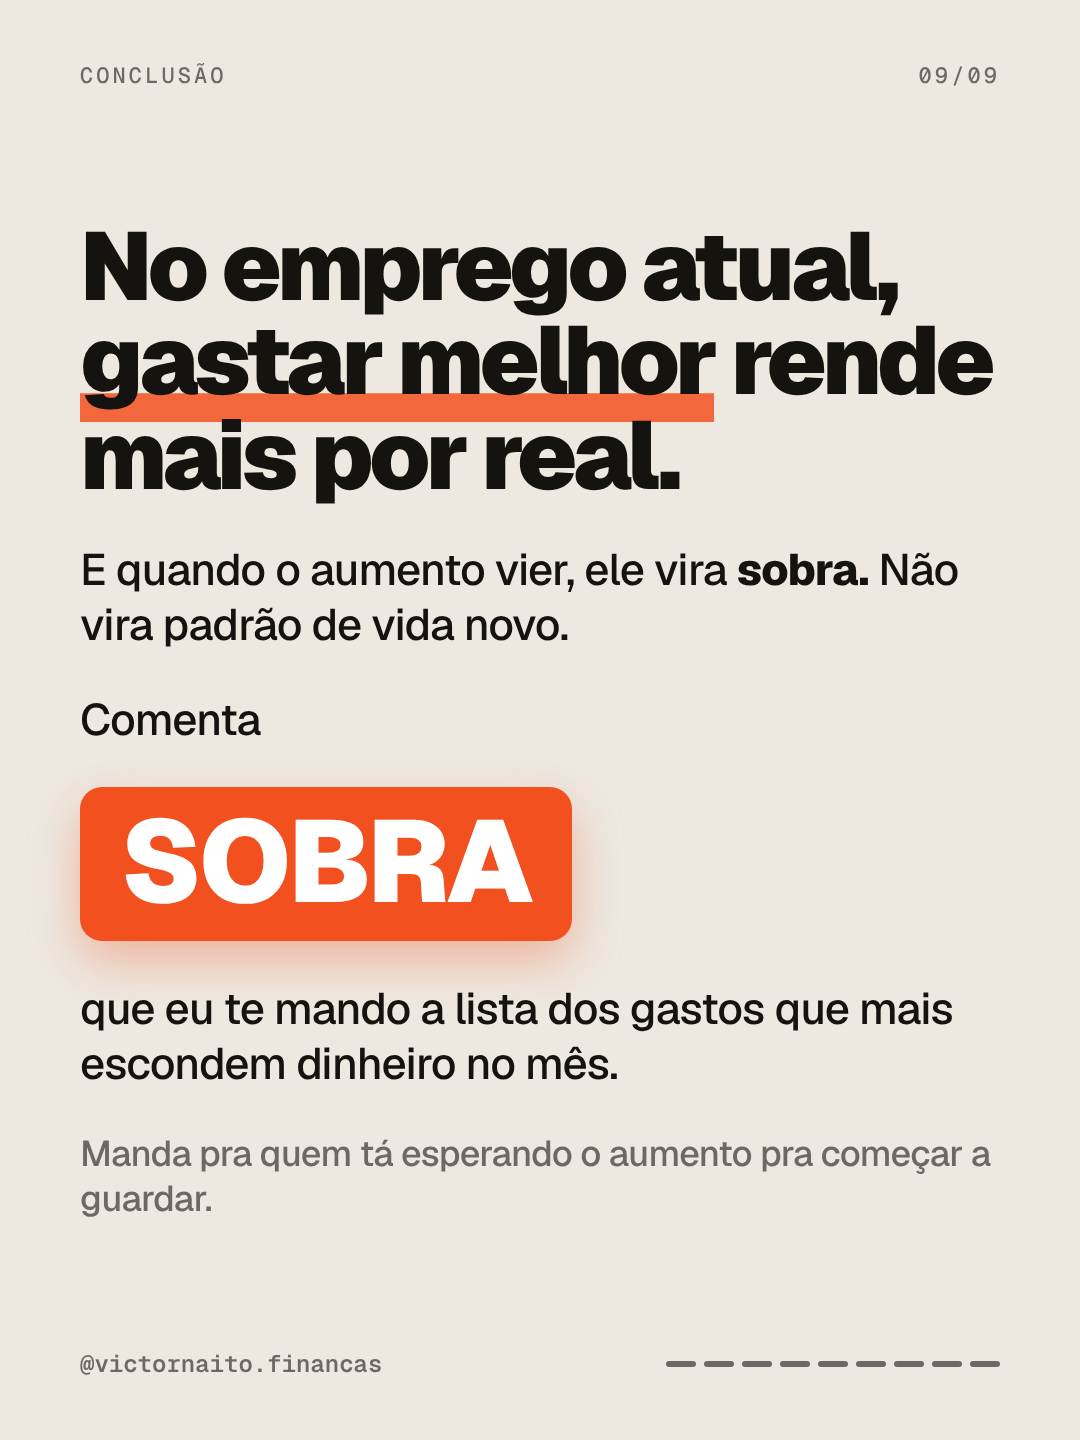
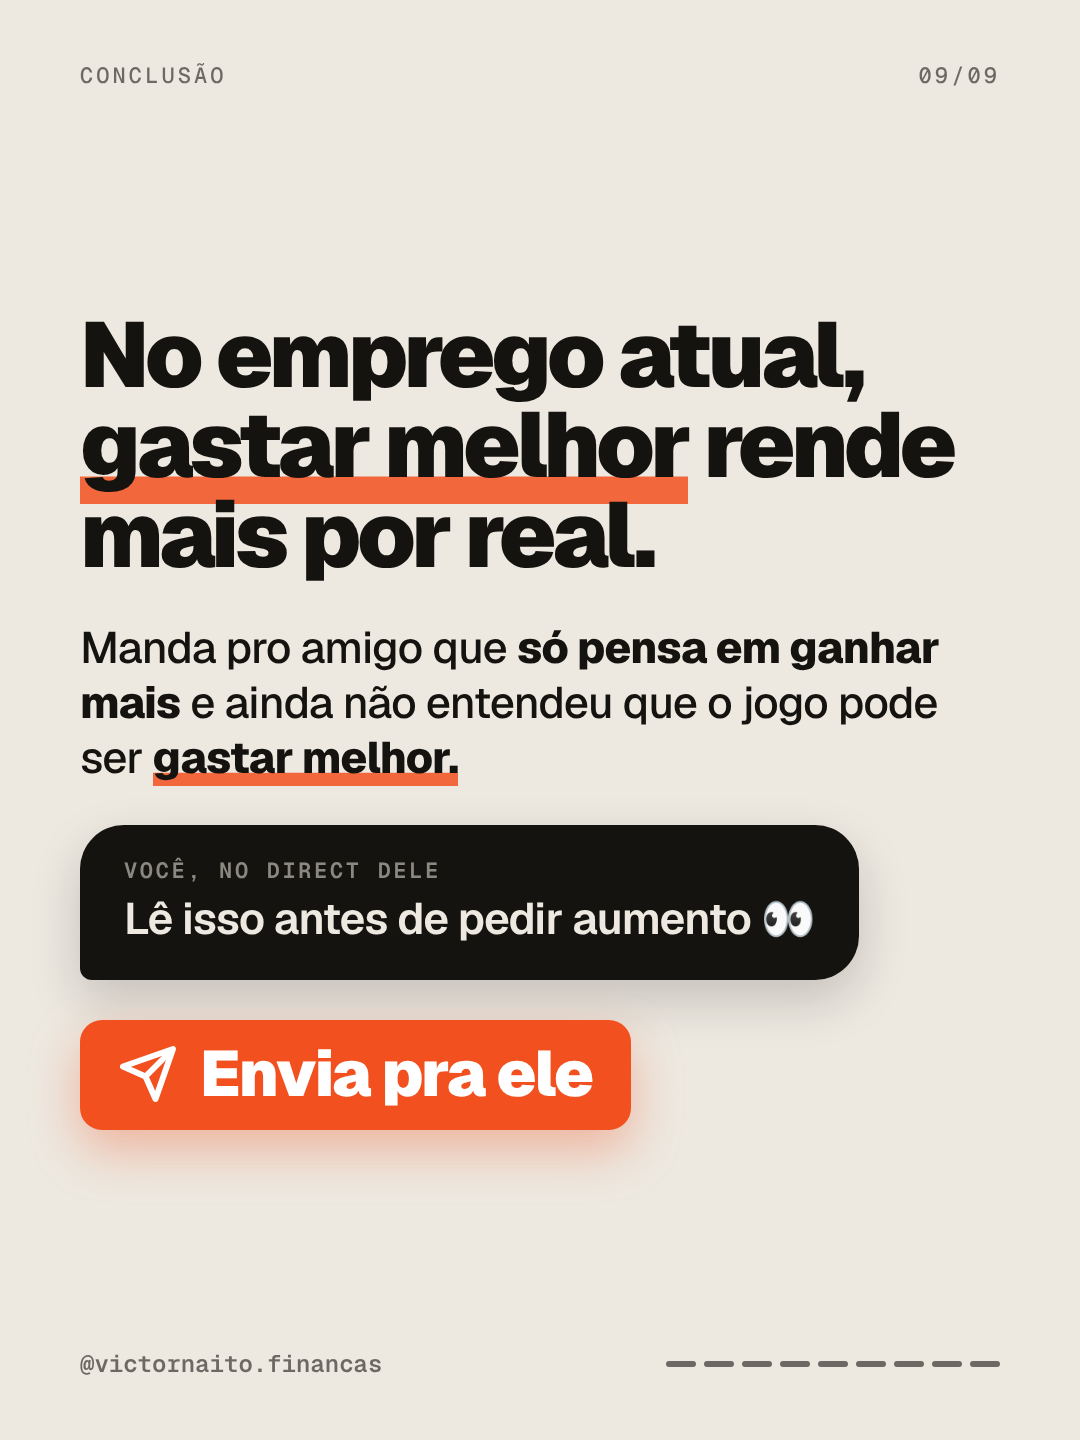
Carrossel sobra vs. aumento: último slide vira CTA de compartilhar
Claude-Session: https://claude.ai/code/session_01S962yHBN9nh6vkU1Z5TodD

Changed region(s): [[0.0611, 0.1562, 0.9167, 0.8438]]

diff --git a/carrosseis/sobra-vs-aumento/src/slide-09.html b/carrosseis/sobra-vs-aumento/src/slide-09.html
@@ -39,18 +39,20 @@ body { -webkit-font-smoothing: antialiased; font-family: 'Geist'; color: var(--t
 .lista .h { font-weight: 800; font-size: 46px; line-height: 1.1; letter-spacing: -0.03em; }
 .lista .d { grid-column: 2; margin-top: 10px; font-weight: 500; font-size: 32px; line-height: 1.3; color: var(--mudo); }
 
-    .palavra { display: inline-block; background: var(--laranja); color: #fff; border-radius: 22px; padding: 16px 40px 22px;
-      font-weight: 900; font-size: 116px; letter-spacing: -0.03em; line-height: 1; box-shadow: 0 20px 50px rgba(242,81,31,.35); }
-    .miolo { gap: 40px; }</style></head>
+    .miolo { gap: 40px; }
+    .dm { align-self: flex-start; max-width: 860px; background: var(--tinta); color: var(--papel); border-radius: 44px 44px 44px 12px;
+      padding: 34px 44px; font-weight: 600; font-size: 44px; line-height: 1.2; letter-spacing: -0.02em; box-shadow: 0 20px 50px rgba(21,19,15,.18); }
+    .dm small { display: block; margin-bottom: 12px; font: 600 22px/1 'Geist Mono'; letter-spacing: .12em; text-transform: uppercase; color: rgba(237,233,225,.55); }
+    .enviar { display: inline-flex; align-items: center; gap: 22px; background: var(--laranja); color: #fff; border-radius: 22px;
+      padding: 22px 38px 24px; font-weight: 900; font-size: 64px; letter-spacing: -0.03em; line-height: 1; box-shadow: 0 20px 50px rgba(242,81,31,.35); }
+    .enviar svg { width: 60px; height: 60px; }</style></head>
 <body><div id="q" class="">
   <div class="abs cab"><span>Conclusão</span><span>09/09</span></div>
   <div class="abs miolo">
-    <div class="t" style="font-size:96px">No emprego atual, <span class="grifo">gastar melhor</span> rende mais por real.</div>
-    <div class="c">E quando o aumento vier, ele vira <b>sobra.</b> Não vira padrão de vida novo.</div>
-    <div class="c">Comenta</div>
-    <div><span class="palavra">SOBRA</span></div>
-    <div class="c">que eu te mando a lista dos gastos que mais escondem dinheiro no mês.</div>
-    <div class="c" style="font-size:36px;color:var(--mudo)">Manda pra quem tá esperando o aumento pra começar a guardar.</div>
+    <div class="t" style="font-size:92px">No emprego atual, <span class="grifo">gastar melhor</span> rende mais por real.</div>
+    <div class="c">Manda pro amigo que <b>só pensa em ganhar mais</b> e ainda não entendeu que o jogo pode ser <span class="grifo"><b>gastar melhor.</b></span></div>
+    <div class="dm"><small>Você, no direct dele</small>Lê isso antes de pedir aumento 👀</div>
+    <div><span class="enviar"><svg viewBox="0 0 24 24" fill="none" stroke="currentColor" stroke-width="2.4" stroke-linejoin="round"><path d="M22 2 11 13"/><path d="M22 2 15 22l-4-9-9-4 20-7Z"/></svg>Envia pra ele</span></div>
   </div>
   <div class="abs rodape"><span>@victornaito.financas</span><span class="barra"><i class="on"></i><i class="on"></i><i class="on"></i><i class="on"></i><i class="on"></i><i class="on"></i><i class="on"></i><i class="on"></i><i class="on"></i></span></div>
 </div></body></html>

diff --git a/carrosseis/sobra-vs-aumento/src/gerar.py b/carrosseis/sobra-vs-aumento/src/gerar.py
@@ -156,15 +156,17 @@ SLIDES = [
     <div class="nota">Aumento bruto de R$ 350 ≈ R$ 305 líquidos nessa faixa. Simulação simplificada.</div>"""),
 
     ("", "Conclusão", """
-    .palavra { display: inline-block; background: var(--laranja); color: #fff; border-radius: 22px; padding: 16px 40px 22px;
-      font-weight: 900; font-size: 116px; letter-spacing: -0.03em; line-height: 1; box-shadow: 0 20px 50px rgba(242,81,31,.35); }
-    .miolo { gap: 40px; }""", """
-    <div class="t" style="font-size:96px">No emprego atual, <span class="grifo">gastar melhor</span> rende mais por real.</div>
-    <div class="c">E quando o aumento vier, ele vira <b>sobra.</b> Não vira padrão de vida novo.</div>
-    <div class="c">Comenta</div>
-    <div><span class="palavra">SOBRA</span></div>
-    <div class="c">que eu te mando a lista dos gastos que mais escondem dinheiro no mês.</div>
-    <div class="c" style="font-size:36px;color:var(--mudo)">Manda pra quem tá esperando o aumento pra começar a guardar.</div>"""),
+    .miolo { gap: 40px; }
+    .dm { align-self: flex-start; max-width: 860px; background: var(--tinta); color: var(--papel); border-radius: 44px 44px 44px 12px;
+      padding: 34px 44px; font-weight: 600; font-size: 44px; line-height: 1.2; letter-spacing: -0.02em; box-shadow: 0 20px 50px rgba(21,19,15,.18); }
+    .dm small { display: block; margin-bottom: 12px; font: 600 22px/1 'Geist Mono'; letter-spacing: .12em; text-transform: uppercase; color: rgba(237,233,225,.55); }
+    .enviar { display: inline-flex; align-items: center; gap: 22px; background: var(--laranja); color: #fff; border-radius: 22px;
+      padding: 22px 38px 24px; font-weight: 900; font-size: 64px; letter-spacing: -0.03em; line-height: 1; box-shadow: 0 20px 50px rgba(242,81,31,.35); }
+    .enviar svg { width: 60px; height: 60px; }""", """
+    <div class="t" style="font-size:92px">No emprego atual, <span class="grifo">gastar melhor</span> rende mais por real.</div>
+    <div class="c">Manda pro amigo que <b>só pensa em ganhar mais</b> e ainda não entendeu que o jogo pode ser <span class="grifo"><b>gastar melhor.</b></span></div>
+    <div class="dm"><small>Você, no direct dele</small>Lê isso antes de pedir aumento 👀</div>
+    <div><span class="enviar"><svg viewBox="0 0 24 24" fill="none" stroke="currentColor" stroke-width="2.4" stroke-linejoin="round"><path d="M22 2 11 13"/><path d="M22 2 15 22l-4-9-9-4 20-7Z"/></svg>Envia pra ele</span></div>"""),
 ]
 
 
